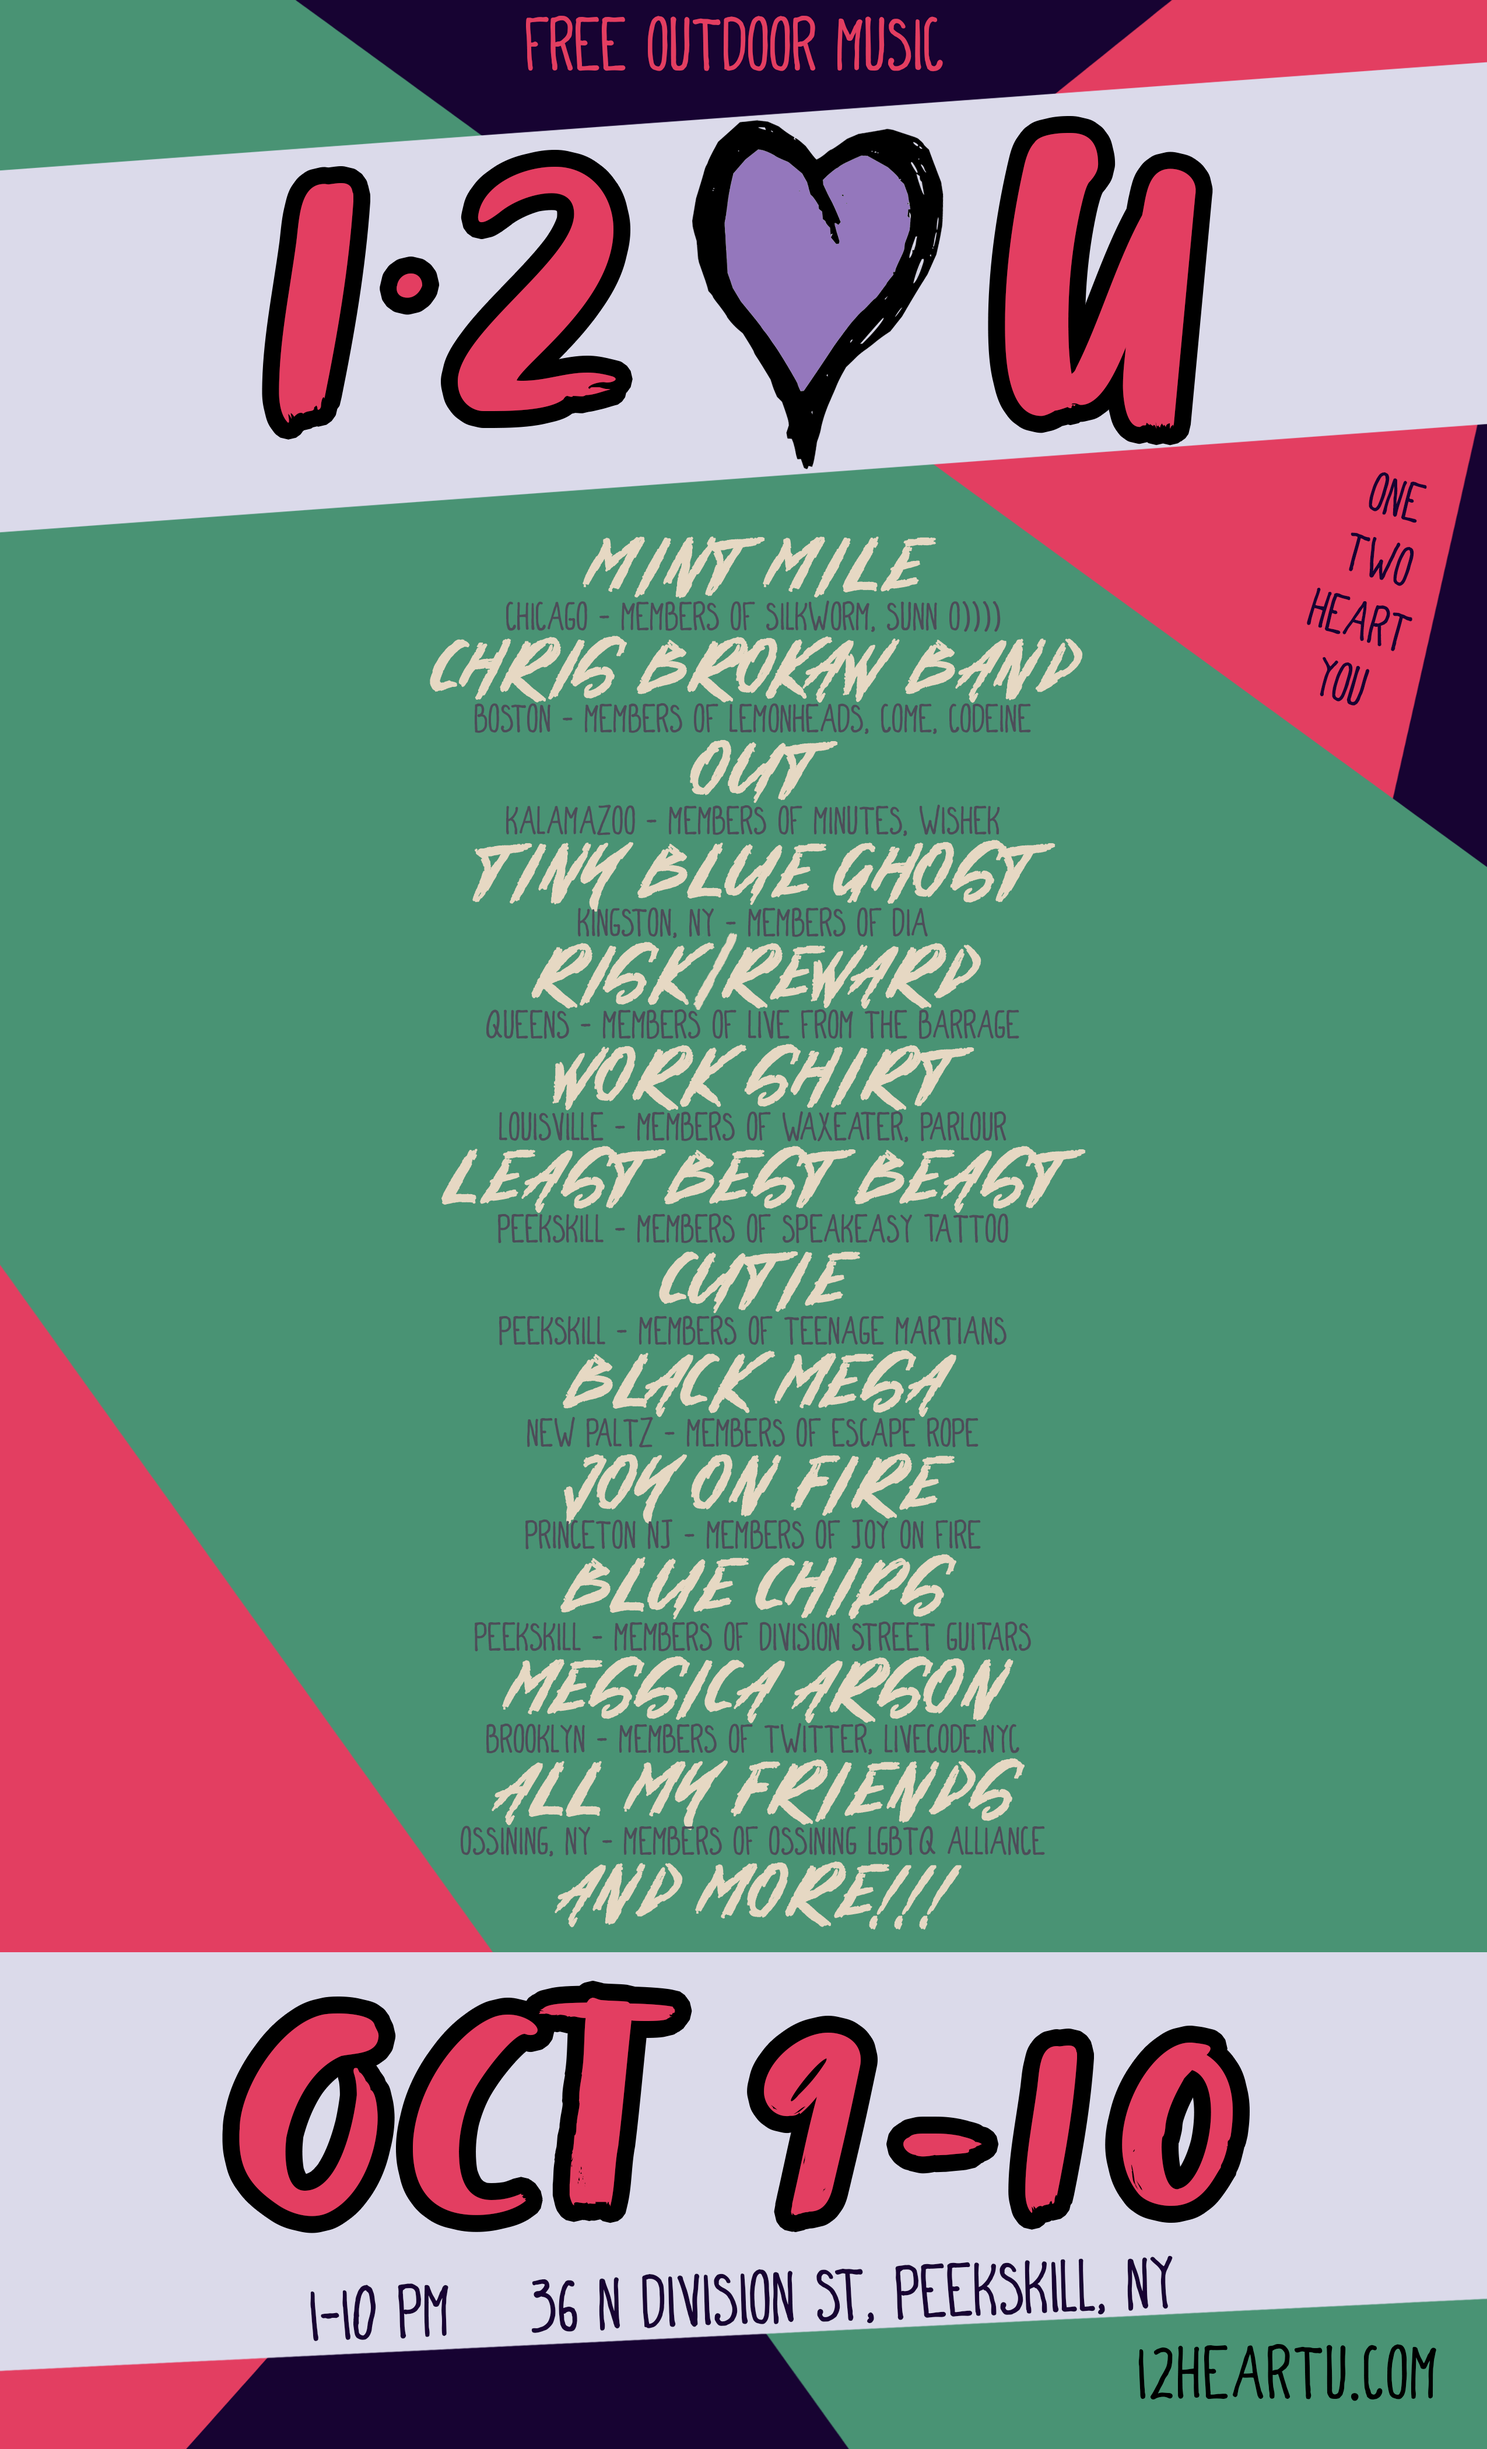
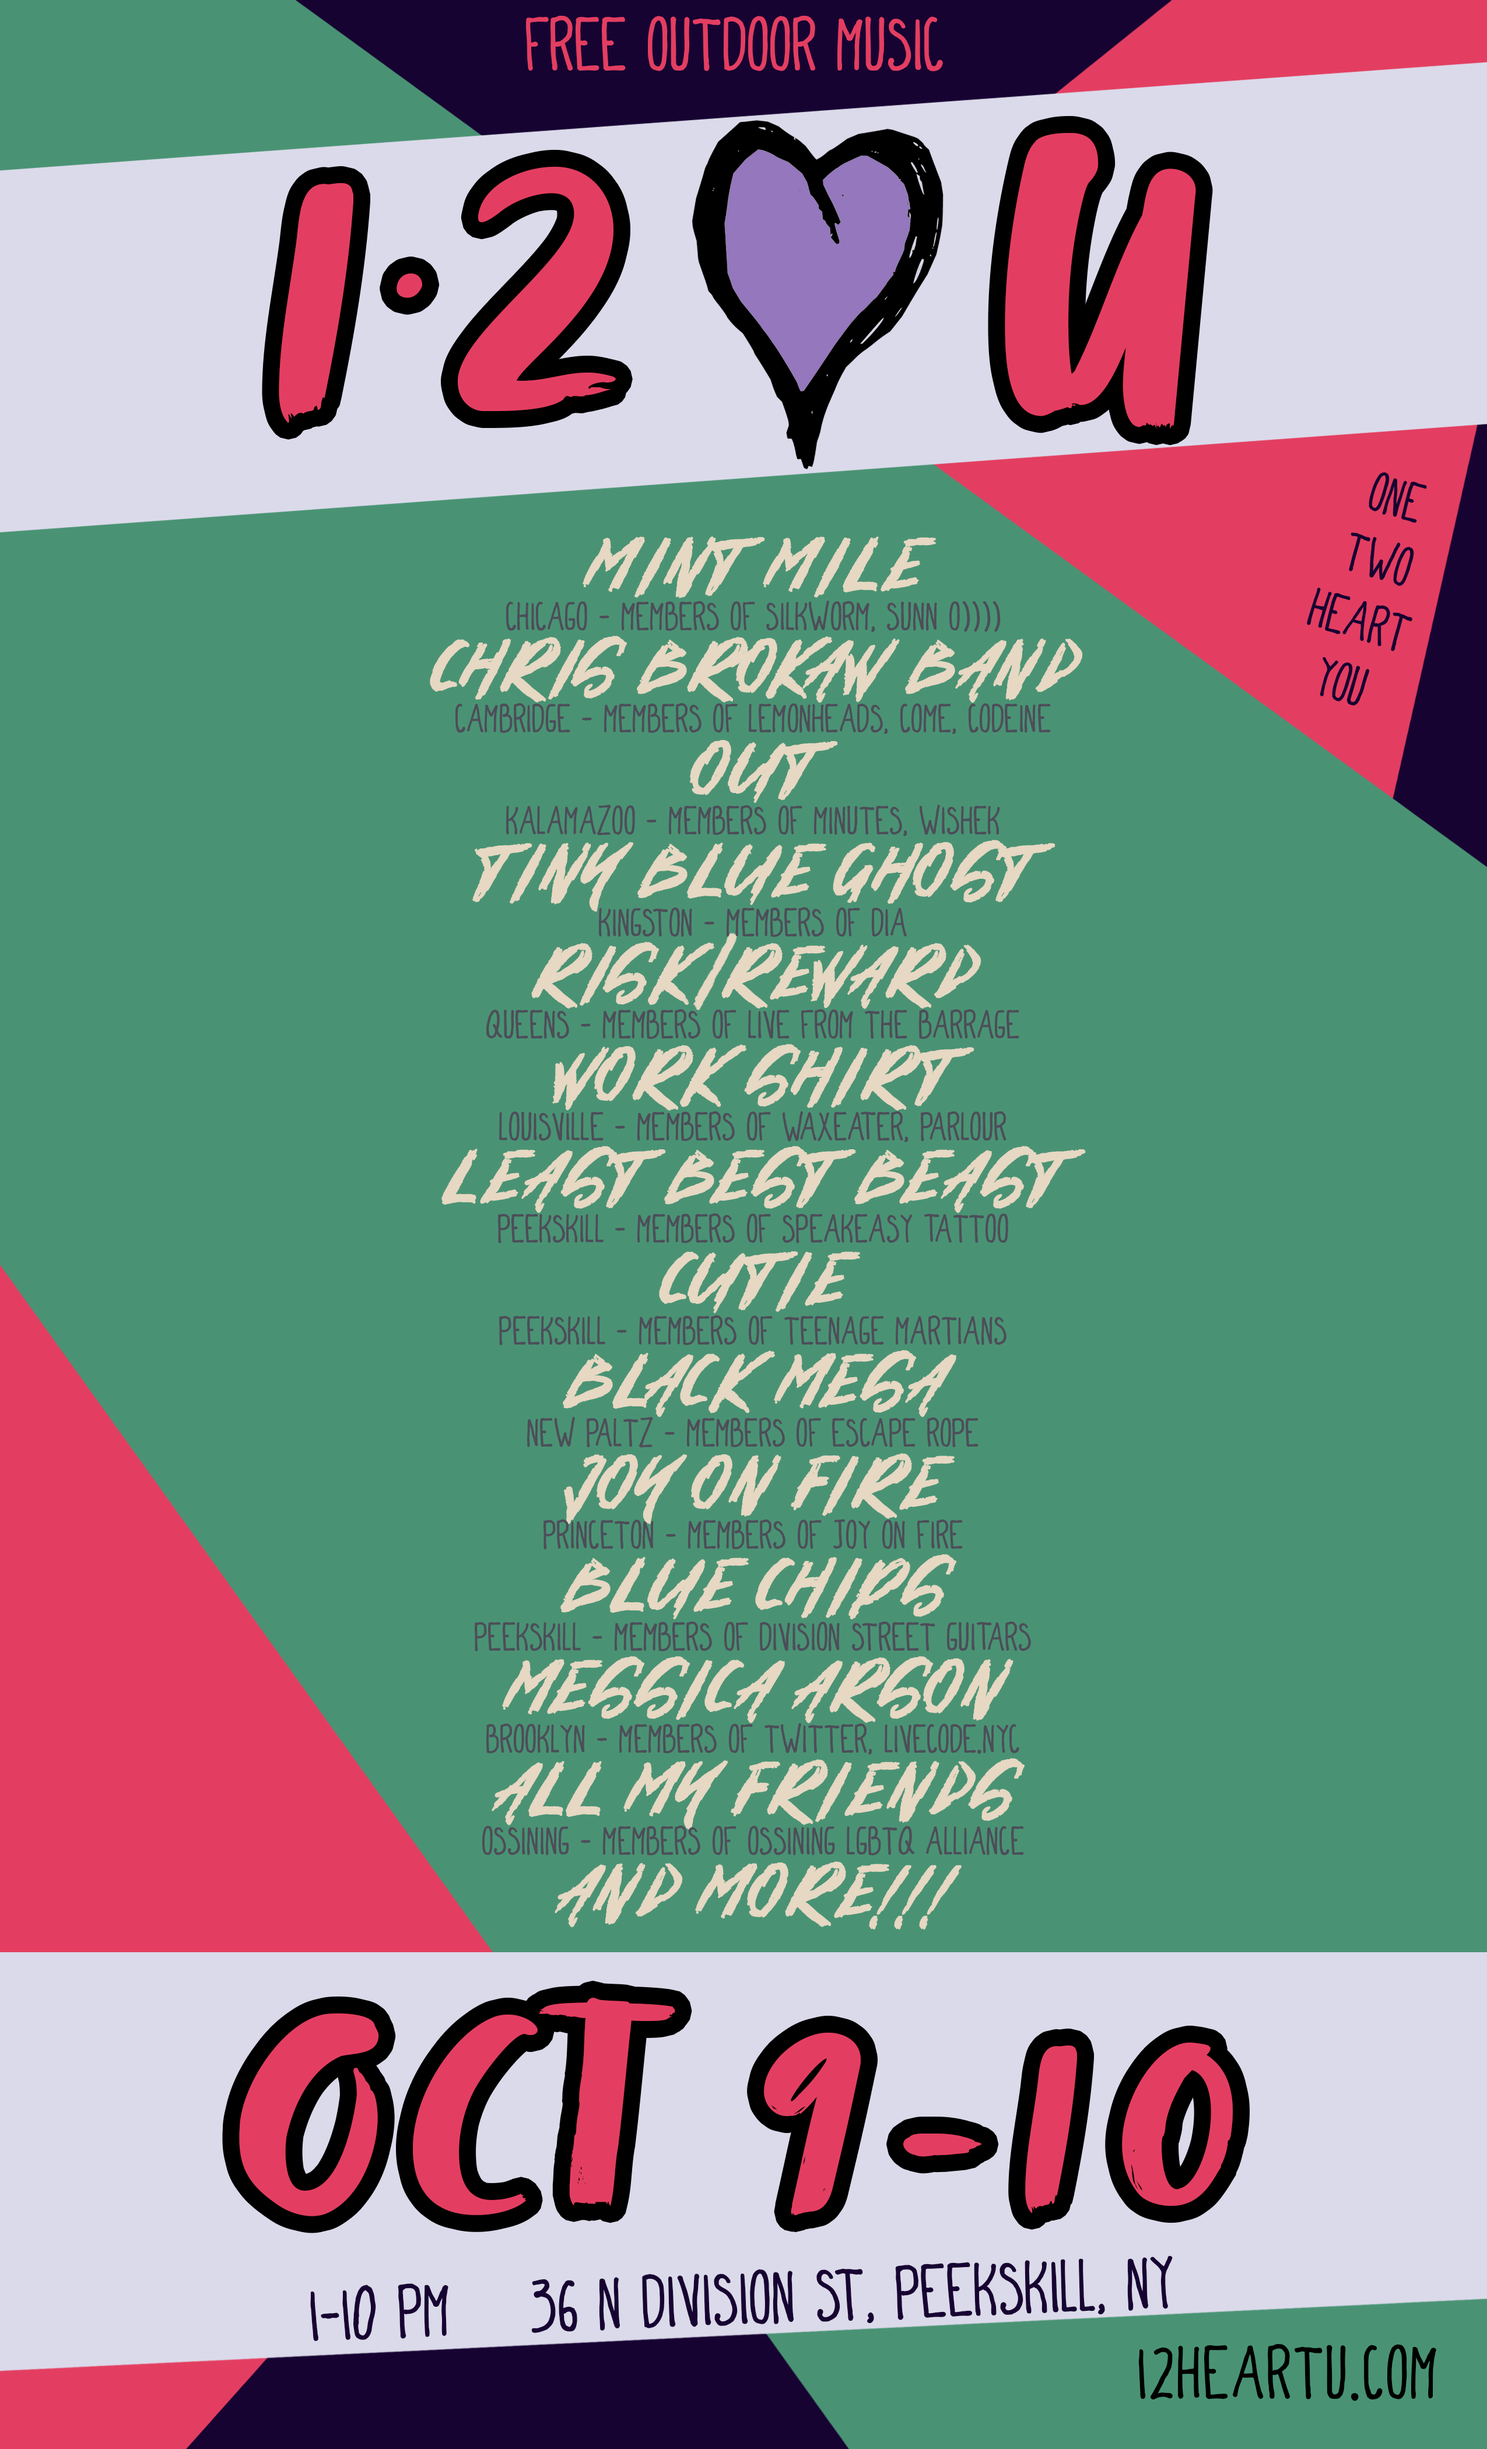
more changes (#7)

diff --git a/index.html b/index.html
@@ -75,66 +75,66 @@
 
         <div class="band-details">
           <p>
-            <a class="bandlink" href="https://mintmile.bandcamp.com/album/ambertron">Mint Mile</a> - Chicago, IL<br>
+            <a class="bandlink" href="https://mintmile.bandcamp.com/album/ambertron">Mint Mile</a> - Chicago<br>
             Members of Silkworm, SUNN O))))
           </p>
           <p>
-            <a class="bandlink" href="https://chrisbrokaw12xu.bandcamp.com/album/puritan">Chris Brokaw Band</a> - Cambridge, MA<br>
+            <a class="bandlink" href="https://chrisbrokaw12xu.bandcamp.com/album/puritan">Chris Brokaw Band</a> - Cambridge<br>
             Members of Lemonheads, Come, Codeine
           </p>
 
           <p>
-            <a class="bandlink" href="https://outkzoo.bandcamp.com/album/billie">OUT</a> - Kalamazoo, MI<br>
+            <a class="bandlink" href="https://outkzoo.bandcamp.com/album/billie">OUT</a> - Kalamazoo<br>
             Members of Minutes, Wishek
           </p>
 
           <p>
-            <a class="bandlink" href="https://tinyblueghost.bandcamp.com/">Tiny Blue Ghost</a> - Kingston, NY<br>
+            <a class="bandlink" href="https://tinyblueghost.bandcamp.com/">Tiny Blue Ghost</a> - Kingston<br>
             Members of DIA
           </p>
 
           <p>
-            <a class="bandlink" href="https://riskreward.bandcamp.com/">Risk/Reward</a> - Queens, NY<br>
+            <a class="bandlink" href="https://riskreward.bandcamp.com/">Risk/Reward</a> - Queens<br>
             Members of Live From The Barrage
           </p>
 
           <p>
-            <a class="bandlink" href="https://workshirtlou.bandcamp.com/">Work Shirt</a> - Louisville, KY<br>
+            <a class="bandlink" href="https://workshirtlou.bandcamp.com/">Work Shirt</a> - Louisville<br>
             Members of Waxeater, Parlour
           </p>
 
           <p>
-            <a class="bandlink" href="https://leastbestbeast.bandcamp.com/">Least Best Beast</a> - Peekskill, NY<br>
+            <a class="bandlink" href="https://leastbestbeast.bandcamp.com/">Least Best Beast</a> - Peekskill<br>
             Members of Speakeasy Tattoo, Mustard Tiger
           </p>
 
           <p>
-            <a class="bandlink" href="https://iheartcutie.bandcamp.com/">Cutie</a> - Peekskill, NY<br>
+            <a class="bandlink" href="https://iheartcutie.bandcamp.com/">Cutie</a> - Peekskill<br>
             Members of Teenage Martians
           </p>
 
           <p>
-            <a class="bandlink" href="https://blackmesany.bandcamp.com/">Black Mesa</a> - New Paltz, NY<br>
+            <a class="bandlink" href="https://blackmesany.bandcamp.com/">Black Mesa</a> - New Paltz<br>
             Members of Escape Rope
           </p>
 
           <p>
-            <a class="bandlink" href="https://joyonfire.bandcamp.com/">Joy on Fire</a> - Princeton, NY<br>
+            <a class="bandlink" href="https://joyonfire.bandcamp.com/">Joy on Fire</a> - Princeton<br>
             Members of Joy On Fire
           </p>
 
           <p>
-            <a class="bandlink" href="https://thebluechips.bandcamp.com/">Blue Chips</a> - Peekskill, NY<br>
+            <a class="bandlink" href="https://thebluechips.bandcamp.com/">Blue Chips</a> - Peekskill<br>
             Members of Division Street Guitars
           </p>
 
           <p>
-            <a class="bandlink" href="https://www.youtube.com/watch?v=5Kf2eY_p8cY">Messica Arson</a> - Brooklyn, NY<br>
+            <a class="bandlink" href="https://www.youtube.com/watch?v=5Kf2eY_p8cY">Messica Arson</a> - Brooklyn<br>
             Members of Twitter, LiveCode.NYC
           </p>
 
           <p>
-            <a class="bandlink" href="https://allmyfriendstunes.bandcamp.com/">All My Friends</a> - Ossining, NY<br>
+            <a class="bandlink" href="https://allmyfriendstunes.bandcamp.com/">All My Friends</a> - Ossining<br>
             Members of Ossining LGBTQ Alliance
           </p>
 
